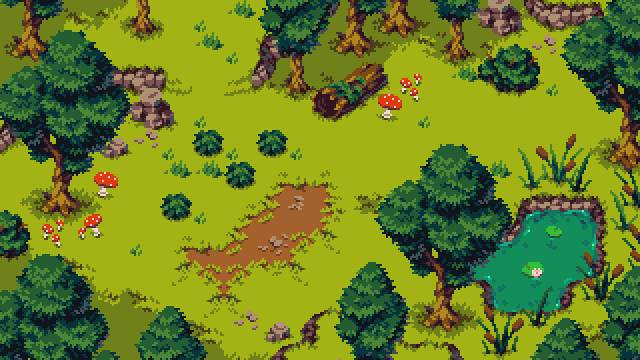
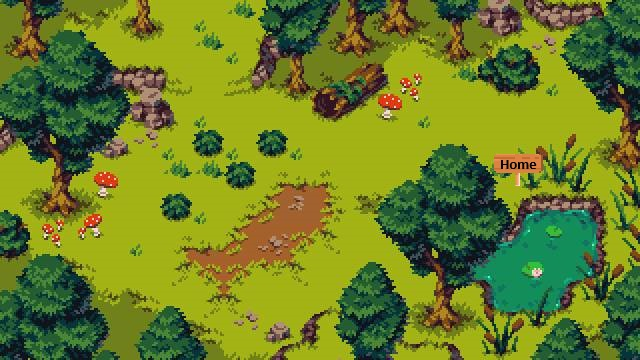
- Updated functionality - Added backgrounds

Changed region(s): [[0.75, 0.4278, 0.875, 0.5194]]

diff --git a/portals.js b/portals.js
@@ -1,90 +1,55 @@
-const sideProjectsPortal = document.getElementById('sideProjectsPortal');
-const experiencePortal = document.getElementById('experiencePortal');
-const aboutMePortal = document.getElementById('aboutMePortal');
+const portals = Array.from(document.querySelectorAll('.portal'));
 
-const sideProjectsPortalRect = sideProjectsPortal.getBoundingClientRect();
-const experiencePortalRect = experiencePortal.getBoundingClientRect();
-const aboutMePortalRect = aboutMePortal.getBoundingClientRect();
-
-
-const sideProjectsPopUp = document.getElementById('sideProjectsPopUp');
-const experiencePopUp = document.getElementById('experiencePopUp');
-const aboutMePopUp = document.getElementById('aboutMePopUp');
+const PressSpacePopUp = document.getElementById('PressSpacePopUp');
 
 
 function checkCollisionWithPortal()
 {
     const playerRect = player.getBoundingClientRect();
+    
+    let collisionPortal = null;
+    portals.forEach(portal => 
+    {
+        const portalRect = portal.getBoundingClientRect();
 
-    // Check if the rectangles overlap
-    const isCollidingSideProjects = (
-        playerRect.x < sideProjectsPortalRect.x + sideProjectsPortalRect.width &&
-        playerRect.x + playerRect.width > sideProjectsPortalRect.x &&
-        playerRect.y < sideProjectsPortalRect.y + sideProjectsPortalRect.height &&
-        playerRect.y + playerRect.height > sideProjectsPortalRect.y
-    );
-
-    const isCollidingExperience = (
-        playerRect.x < experiencePortalRect.x + experiencePortalRect.width &&
-        playerRect.x + playerRect.width > experiencePortalRect.x &&
-        playerRect.y < experiencePortalRect.y + experiencePortalRect.height &&
-        playerRect.y + playerRect.height > experiencePortalRect.y
-    );
-
-    const isCollidingAboutMe = (
-        playerRect.x < aboutMePortalRect.x + aboutMePortalRect.width &&
-        playerRect.x + playerRect.width > aboutMePortalRect.x &&
-        playerRect.y < aboutMePortalRect.y + aboutMePortalRect.height &&
-        playerRect.y + playerRect.height > aboutMePortalRect.y
-    );
-
-    let isColliding = (isCollidingSideProjects || isCollidingExperience || isCollidingAboutMe)
-    return collisions = {isColliding: isColliding, collidingWithSideProjects: isCollidingSideProjects, collidingWithExperience: isCollidingExperience, collidingWithAboutMe: isCollidingAboutMe};
+        // Check if the player is colliding with the portal
+        if (playerRect.right > portalRect.left &&
+            playerRect.left < portalRect.right &&
+            playerRect.bottom > portalRect.top &&
+            playerRect.top < portalRect.bottom) 
+        {
+            collisionPortal = portal;
+        }
+    });
+        
+    let isColliding = (collisionPortal != null);
+    return collisions = {isColliding: isColliding, collisionPortal: collisionPortal};
 }
 
-
-function enableSpacePopUp(collisions)
+function enableSpacePopUp(portal)
 {
     // enable pop ups when colliding
 
-    if(collisions.collidingWithSideProjects)
+    let portalRect = portal.getBoundingClientRect();
+
+    if(portal.id == "sideProjectsPortal")
     {   
-        sideProjectsPopUp.style.display = "block";
-        sideProjectsPopUp.style.left = sideProjectsPortalRect.left + (sideProjectsPortalRect.width / 2) - (sideProjectsPopUp.offsetWidth / 2) + "px";
-        sideProjectsPopUp.style.top = sideProjectsPortalRect.bottom + 10 + "px";
+        PressSpacePopUp.style.display = "block";
+        PressSpacePopUp.style.left = portalRect.left + (portalRect.width / 2) - (PressSpacePopUp.offsetWidth / 2) + "px";
+        PressSpacePopUp.style.top = portalRect.bottom + 10 + "px";
     }
-    else if(collisions.collidingWithExperience)
+    else
     {
-        experiencePopUp.style.display = "block";
-        experiencePopUp.style.left = experiencePortalRect.left + (experiencePortalRect.width / 2) - (experiencePopUp.offsetWidth / 2) + "px";
-        experiencePopUp.style.top = experiencePortalRect.top - experiencePopUp.offsetHeight + "px";
+        PressSpacePopUp.style.display = "block";
+        PressSpacePopUp.style.left = portalRect.left + (portalRect.width / 2) - (PressSpacePopUp.offsetWidth / 2) + "px";
+        PressSpacePopUp.style.top = portalRect.top - PressSpacePopUp.offsetHeight + "px";
     }
-    else if(collisions.collidingWithAboutMe)
-    {
-        aboutMePopUp.style.display = "block";
-        aboutMePopUp.style.left = aboutMePortalRect.left + (aboutMePortalRect.width / 2) - (aboutMePopUp.offsetWidth / 2) + "px";
-        aboutMePopUp.style.top = aboutMePortalRect.top - aboutMePopUp.offsetHeight + "px";
-    }
+    
 }
 
-function disablePopUp(collisions)
+
+function disablePopUp()
 {
     // disable pop ups when not colliding
-
-    if(!collisions.collidingWithSideProjects)
-    {
-        sideProjectsPopUp.style.display = "none";
-    }
-    
-    if(!collisions.collidingWithExperience)
-    {
-        experiencePopUp.style.display = "none";
-    }
-    
-    if(!collisions.collidingWithAboutMe)
-    {
-        aboutMePopUp.style.display = "none";
-    }
-
-
+    PressSpacePopUp.style.display = "none";
 }

diff --git a/movement.js b/movement.js
@@ -21,7 +21,7 @@ let canDash = true;
 const numberOfAfterimages = 4; // number of afterimages created
 const afterimageDelay = 25; // Delay between afterimages in milliseconds
 const spacingMultiplier = 3; // after image distance from each other
-const initialOffsetMultiplier = -1; // after image distance from cube
+const initialOffsetMultiplier = -1; // after image distance from player
 
 
 let playableAreaWidth = playableArea.offsetWidth;
@@ -74,11 +74,11 @@ function movePlayer()
 
     if(collisions.isColliding) // Check for collision with portals after moving
     {
-        enableSpacePopUp(collisions);
+        enableSpacePopUp(collisions.collisionPortal);
     }
     else
     {
-        disablePopUp(collisions);
+        disablePopUp();
     }
 }
 
@@ -193,21 +193,30 @@ document.addEventListener('keypress', (event) =>
     {
         case " ": // when space bar is pressed, dash, or take portal
             
-            let collisions = checkCollisionWithPortal(); 
+            let collisions= checkCollisionWithPortal(); 
             // check for pressing space while touching a portal
-            if(collisions.collidingWithSideProjects) 
+            if(collisions.isColliding)
             {
-                window.location.href = "sideProjects.html";
+                let collisionsPortal = collisions.collisionPortal;
+
+                if(collisionsPortal.id == "sideProjectsPortal") 
+                {
+                    window.location.href = "sideProjects.html";
+                }
+                else if(collisionsPortal.id == "experiencePortal")
+                {
+                    window.location.href = "experience.html";
+                }
+                else if(collisionsPortal.id == "aboutMePortal")
+                {
+                    window.location.href = "aboutMe.html";
+                }
+                else if(collisionsPortal.id = "homePortal")
+                {
+                    window.location.href = "index.html";
+                }
             }
-            else if(collisions.collidingWithExperience)
-            {
-                window.location.href = "experience.html";
-            }
-            else if(collisions.collidingWithAboutMe)
-            {
-                window.location.href = "aboutMe.html";
-            }
-            
+
             // otherwise dash
             if(canDash)
             {

diff --git a/index.html b/index.html
@@ -4,6 +4,7 @@
   <meta charset="UTF-8">
   <meta name="viewport" content="width=device-width, initial-scale=1.0">
   <link rel="stylesheet" href="styles.css">
+  <link href="https://fonts.googleapis.com/css2?family=Uncial+Antiqua&display=swap" rel="stylesheet">
   
   <title> Portfolio Website</title>
 </head>
@@ -14,30 +15,28 @@
     
     <div id="instructionsScreen">
         <h2>Welcome to my Website!</h2>
-        
         <h4>WASD or Arrow Keys to Move</h4>
-            
         <h4>Space to Dash</h4>
         
         <button onclick="instructionsClicked()">Close</button>
     </div>
 
 
-    <div id="player"></div>
+        <div id="player"></div>
+        
+        <img src="Images/Sprites/portalSprite.gif" class="portal" id="sideProjectsPortal" alt="A Portal!" style="top: 2%; left: 41%;">
+        <img src="Images/Sprites/portalSprite.gif" class="portal" id="experiencePortal" alt="A Portal!" style="top: 50%; left: 3%;">
+        <img src="Images/Sprites/portalSprite.gif" class="portal" id="aboutMePortal" alt="A Portal!" style="top: 45%; left: 78%;">
+
+        <div class="pressSpacePopUp" id="PressSpacePopUp">Press Space</div>
+
+
+    </div>
+
     
-    <img src="Images/Sprites/portalSprite.gif" class="portal" id="sideProjectsPortal" alt="A Portal!" style="top: 2%; left: 41%;">
-    <img src="Images/Sprites/portalSprite.gif" class="portal" id="experiencePortal" alt="A Portal!" style="top: 50%; left: 3%;">
-    <img src="Images/Sprites/portalSprite.gif" class="portal" id="aboutMePortal" alt="A Portal!" style="top: 45%; left: 78%;">
-
-    <div class="pressSpacePopUp" id="sideProjectsPopUp">Press Space</div>
-    <div class="pressSpacePopUp" id="experiencePopUp">Press Space</div>
-    <div class="pressSpacePopUp" id="aboutMePopUp">Press Space</div>
-
-</div>
-
-
-  <script src="movement.js"></script>
-  <script src="portals.js"></script>
-  <script src="instructions.js"></script>
+    <script src="instructions.js"></script>
+    <script src="movement.js"></script>
+    <script src="portals.js"></script>
+    <script> let firstTimeLoadingSite = false; </script>
 </body>
 </html>

diff --git a/sideProjects.html b/sideProjects.html
@@ -6,14 +6,26 @@
     <meta name="viewport" content="width=device-width, initial-scale=1.0">
     <title> Side Projects </title>
     <link rel="stylesheet" href="styles.css">
+    <link href="https://fonts.googleapis.com/css2?family=Uncial+Antiqua&display=swap" rel="stylesheet">
 </head>
 
 <body>
 
-    <div>
-        <h1>Side Projects</h1>
+    <div id="gameArea" style="background-image: url(Images/Backgrounds/MountainBackground.png);">
+
+        <div id="player"></div>
+    
+        <img src="Images/Sprites/portalSprite.gif" class="portal" id="homePortal" alt="A Portal!" style="top: 45%; left: 79%;">
+
+        <div class="pressSpacePopUp" id="PressSpacePopUp">Press Space</div>
+
     </div>
     
+    
+    <script src="movement.js"></script>
+    <script src="portals.js"></script>
+    <script> isInstructionsVisible = false; // make sure player can move </script>
 </body>
+
 
 </html>

diff --git a/experience.html b/experience.html
@@ -6,14 +6,25 @@
     <meta name="viewport" content="width=device-width, initial-scale=1.0">
     <title> Experience </title>
     <link rel="stylesheet" href="styles.css">
+    <link href="https://fonts.googleapis.com/css2?family=Uncial+Antiqua&display=swap" rel="stylesheet">
 </head>
 
 <body>
 
-    <div>
-        <h1>Experience</h1>
+    <div id="gameArea" style="background-image: url(Images/Backgrounds/ForrestBackground.jpg);">
+
+        <div id="player"></div>
+    
+        <img src="Images/Sprites/portalSprite.gif" class="portal" id="homePortal" alt="A Portal!" style="top: 45%; left: 78%;">
+
+        <div class="pressSpacePopUp" id="PressSpacePopUp">Press Space</div>
+
     </div>
     
+    
+    <script> isInstructionsVisible = false; // make sure player can move </script>
+    <script src="movement.js"></script>
+    <script src="portals.js"></script>
 </body>
 
 </html>

diff --git a/aboutMe.html b/aboutMe.html
@@ -6,14 +6,26 @@
     <meta name="viewport" content="width=device-width, initial-scale=1.0">
     <title> About Me </title>
     <link rel="stylesheet" href="styles.css">
+    <link href="https://fonts.googleapis.com/css2?family=Uncial+Antiqua&display=swap" rel="stylesheet">
 </head>
 
 <body>
 
-    <div>
-        <h1>About Me</h1>
+    <div id="gameArea" style="background-image: url(Images/Backgrounds/ForrestBackground.jpg);">
+
+        <div id="player"></div>
+    
+        <img src="Images/Sprites/portalSprite.gif" class="portal" id="homePortal" alt="A Portal!" style="top: 45%; left: 78%;">
+
+        <div class="pressSpacePopUp" id="PressSpacePopUp">Press Space</div>
+
     </div>
     
+    
+    <script src="movement.js"></script>
+    <script src="portals.js"></script>
+    <script> isInstructionsVisible = false; // make sure player can move </script>
 </body>
+
 
 </html>

diff --git a/instructions.js b/instructions.js
@@ -2,9 +2,21 @@ const instructionsScreen = document.getElementById('instructionsScreen');
 
 let isInstructionsVisible = true;
 
+window.onload = function() {
+    // Check if instructions have already been seen this session
+    if (sessionStorage.getItem('instructionsSeen')) 
+    {
+        // Show the instructions if this is the first time in this session
+        document.getElementById('instructionsScreen').style.display = 'none';
+        isInstructionsVisible = false;
+    }
+};
 
-function instructionsClicked()
-{
+function instructionsClicked() {
+
     isInstructionsVisible = false;
-    instructionsScreen.remove();
+    document.getElementById('instructionsScreen').style.display = 'none';
+    
+    // Mark instructions as seen in sessionStorage
+    sessionStorage.setItem('instructionsSeen', 'true');
 }

diff --git a/styles.css b/styles.css
@@ -23,7 +23,6 @@ body {
     
     position: relative;
     
-    
     z-index: 3;
 }
 
@@ -53,12 +52,15 @@ body {
 
     position: absolute;
     width: 10%;
-    padding: 15px;
+    padding: 10px;
     
     box-shadow: 0 4px 15px rgba(0, 0, 0, 0.2); /* Shadow effect */
     text-align: center; /* Center text */
     
     display: none; /* Initially hidden */
+
+    font-family: 'MedievalSharp', cursive;
+    font-size: 125%;
 }
 
 
